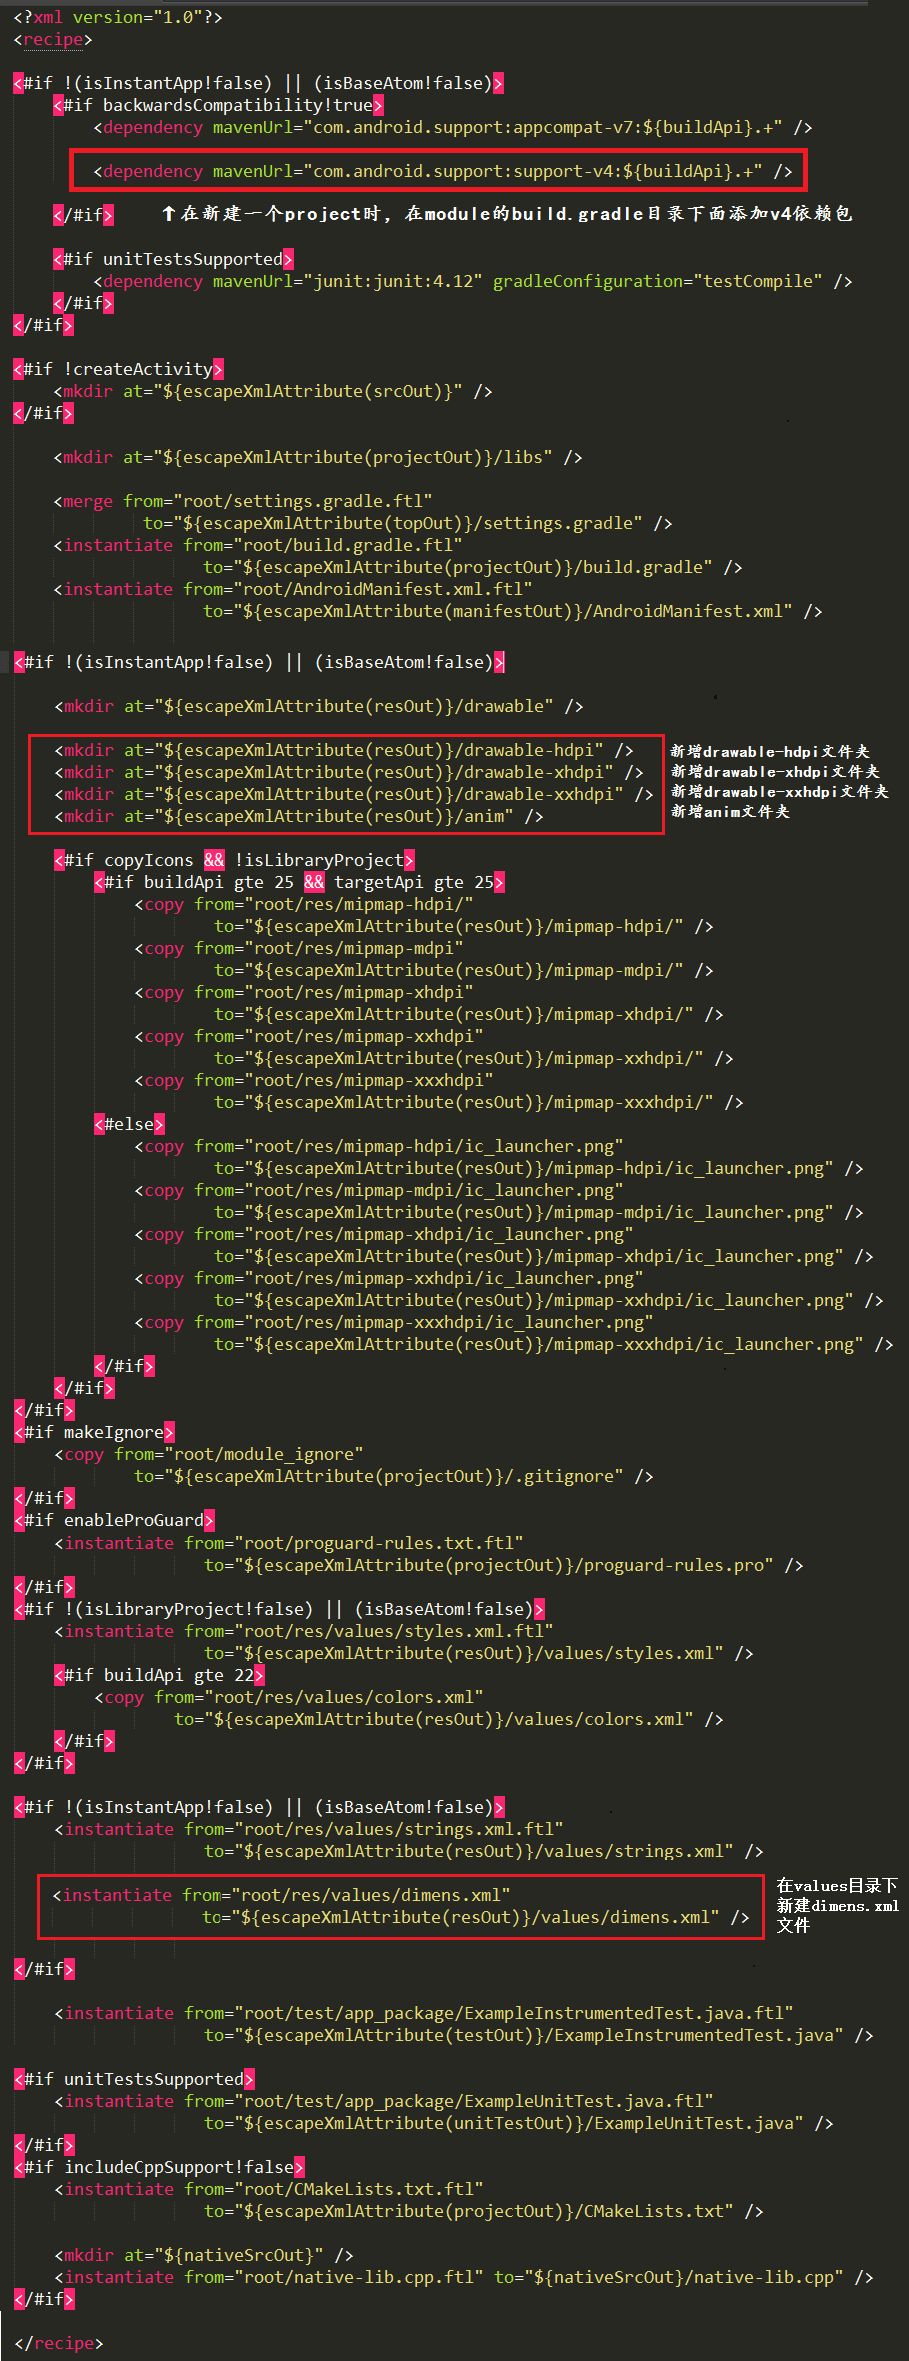
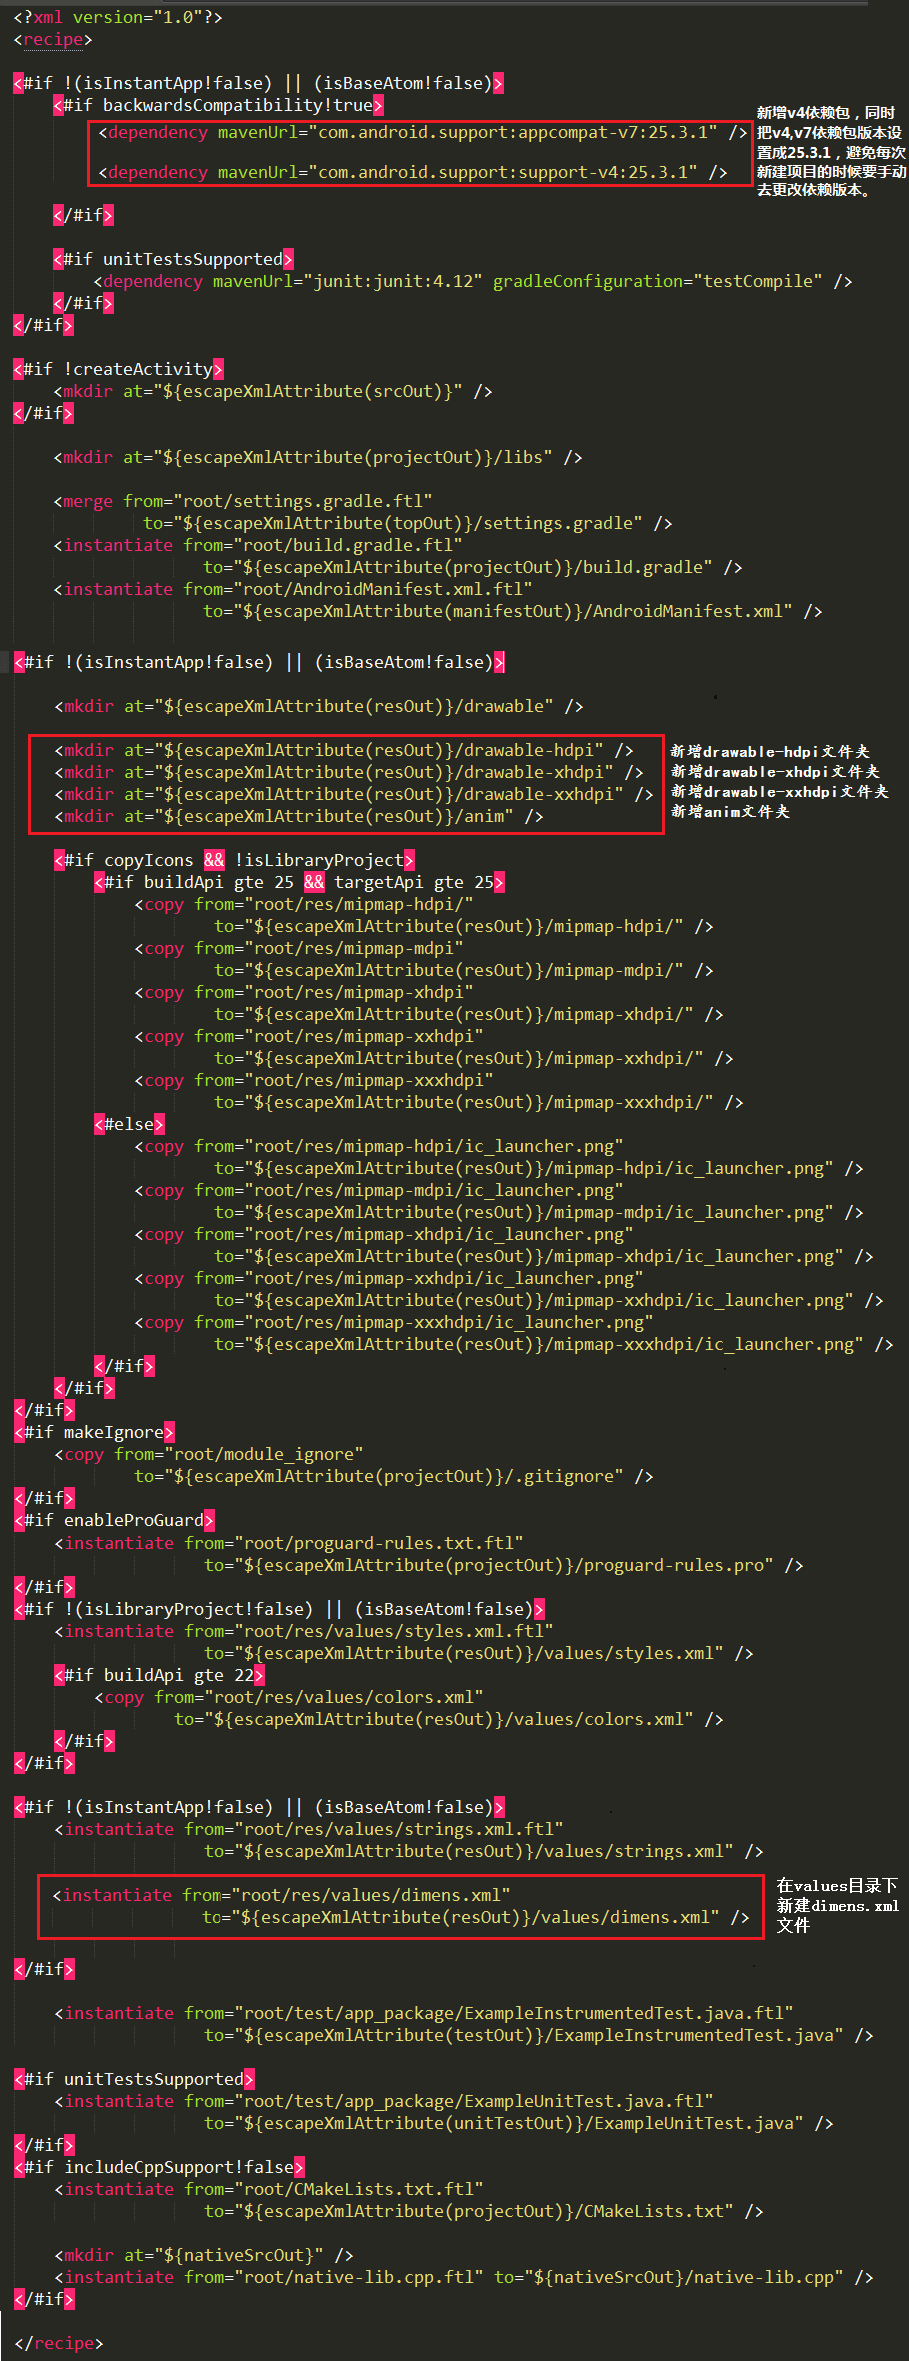
update

Changed region(s): [[0.0616, 0.0309, 1.0, 0.0928]]

diff --git a/Android Studio常用模板用法和自定义模板.md b/Android Studio常用模板用法和自定义模板.md
@@ -7,7 +7,8 @@ ________________
 ### Android Studio 新建一个 **project** 时并没有将 Android 开发中常用的文件目录全部生成，比如默认只生成了一个 drawable文件夹，常用的 drawable-hdpi等文件夹需要我们自己去创建。再比如values目录下的dimens.xml，res目录下的anim文件夹都是没有的，需要我们手动去创建。这样一来，自己创建浪费时间，同时创建的目录名字错了，编译肯定会报错。所以为了效率和安全起见，我们需要把工程目录模板进行修改，达到创建 project 时就可以生成完整的目录结构，不再手动去创建的目的。
 
 
-> ##### 1.　进入 Android Studio 安装目录，依次进入 plugins --> android --> lib --> templates --> gradle-projects --> NewAndroidModule --> root --> res --> values，在values文件夹下创建 dimens.xml 文件夹，写入以下内容:
+> ##### 1.　新建module的时候自动生成dimens.xml.
+##### 操作方式：进入 Android Studio 安装目录，依次进入 plugins --> android --> lib --> templates --> gradle-projects --> NewAndroidModule --> root --> res --> values，在values文件夹下创建 dimens.xml 文件夹，写入以下内容，保存:
 
     <?xml version="1.0" encoding="utf-8"?>
     <resources>
@@ -15,27 +16,59 @@ ________________
     </resources>
 
    
-> ##### 2.　进入 Android Studio 安装目录，依次进入 plugins --> android --> lib --> templates --> gradle-projects --> NewAndroidModule，然后用编辑器打开 recipe.xml.ftl文件，并加入以下配置,如下图红色框框所示
+> ##### 2.这里有3个需要变更的地方。
+> （1）新建module时，自动添加v4依赖，并且指定v4，v7包依赖版本。
+> 
+> （2）新建module时自动生成不同分辨率的drawable文件夹。
+> 
+> （3）指定dimens.xml的路径。
+> 
+##### 操作方式：进入 Android Studio 安装目录，依次进入 plugins --> android --> lib --> templates --> gradle-projects --> NewAndroidModule，然后用编辑器打开 recipe.xml.ftl文件，并加入以下配置,如下图红色框框所示
 
 
 ![修改NewAndroidModule自带的模板](https://github.com/AweiLoveAndroid/The-pit-of-the-Android-Studio/blob/master/pic/%E4%BF%AE%E6%94%B9NewAndroidModule%E8%87%AA%E5%B8%A6%E7%9A%84%E6%A8%A1%E6%9D%BF.png?raw=true)
 
 
 
-    说明：
-    （1）dependency 这个意思是配置依赖库的url，默认的只有一个v7包，我这里新增了一个v4包的依赖
-    （2）mkdir 意思是创建目录
-    （3）解释一下以下这段代码的意思：
+说明：
+
+* （1）dependency 这个意思是配置依赖库的url，默认的只有一个v7包，我这里新增了一个v4包的依赖
+
+* （2）v7或者v4后面的25.3.1是对应的版本号，比如你想用24的版本，你可以替换成你的sdk里面对应的版本号（不知道sdk版本号的可以查看 **[Android studio常用设置和快捷键](https://github.com/AweiLoveAndroid/The-pit-of-the-Android-Studio/blob/master/Android%20Studio%E5%B8%B8%E7%94%A8%E8%AE%BE%E7%BD%AE%E5%92%8C%E5%BF%AB%E6%8D%B7%E9%94%AE.md)**）。
+
+* （3）mkdir 意思是创建目录
+
+* （4）解释一下以下这段代码的意思：
+
          <instantiate from="root/res/values/dimens.xml"
                    to="${escapeXmlAttribute(resOut)}/values/dimens.xml" />
+
         意思是把 模板的root/res/values/demins.xml 这个路径里面的dimens.xml拷贝到创建的项目资源目录下面的values/dimens.xml
 
+> ##### 3.新建module的时候想让module的build.gradle里面的编译指定某一个版本。比如我想要的结果是这样的：
+
+    android {
+        compileSdkVersion 25
+        buildToolsVersion "25.0.3"
+        defaultConfig {
+            minSdkVersion 25
+            targetSdkVersion 25
+            ...
+        }
+        ...
+    }
+
+##### 重点要设置的有4个：compileSdkVersion、buildToolsVersion、minSdkVersion、targetSdkVersion，下面讲一下操作方法：
+##### 进入 Android Studio 安装目录，依次进入 plugins --> android --> lib --> templates --> gradle-projects --> NewAndroidModule --> root，然后用编辑器打开build.gradle.ftl，修改配置如下图红色框框所示：
+
+![修改NewAndroidModule指定编译版本号]()
+
+**说明：先把这个文件备份，再去做修改。免费出问题了还可以还原回来。**
 
 
-> ##### 3.　新建一个project看看效果如何：
+> ##### 4.　新建一个project看看效果如何：
 
 ![效果图](https://github.com/AweiLoveAndroid/The-pit-of-the-Android-Studio/blob/master/pic/%E6%95%88%E6%9E%9C%E5%9B%BE.png?raw=true)
-
 
 
 
